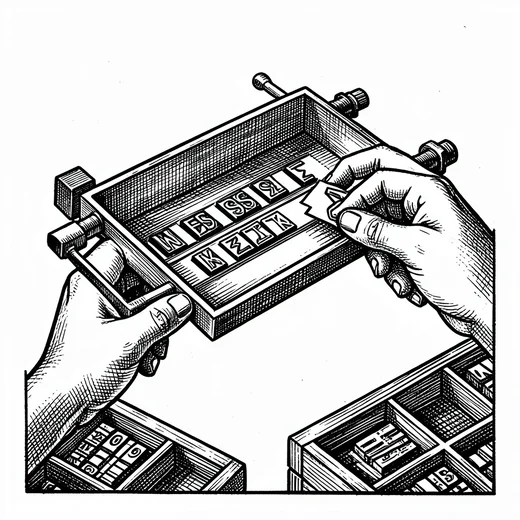
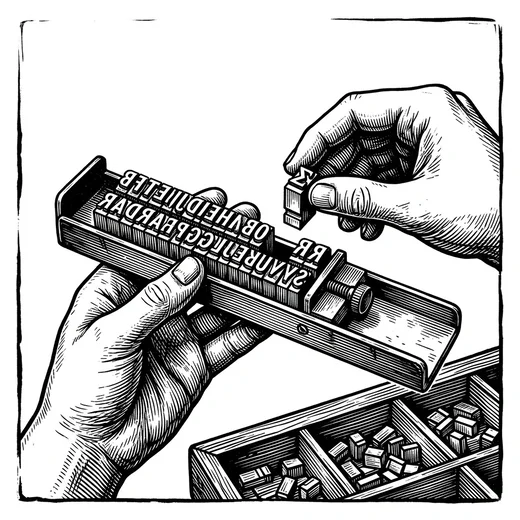
Array Languages #15 draft: an accurate composing stick

diff --git a/_drafts/array-languages-xetal-macro-parsing.md b/_drafts/array-languages-xetal-macro-parsing.md
@@ -21,7 +21,7 @@ repo_urls:
      tmp/equations-findings-2026-10-17.md. NO library exists yet (no commit, no plan step on 10/17): where it lives, its name,
      its API are all open. Do not describe any of it as built until its commit exists. Macros to move onto it, as examples:
      Equations (e:e_q<), Pipeline (pipe:p_ipe<, X_eTaL-ML), Stencil (X_eTaL-demos), Tags (X_eTaL-libraries).
-     Lead image: Mike's block-composer-stick.jpg (2026-10-17), a stylized woodcut; monochrome, inverts in dark mode. -->
+     Lead image: Mike's block-composer-stick.jpg (2026-10-17), third version (11:56), an accurate stick; monochrome, inverts in dark mode. -->
 
 <img src="{{ '/assets/images/posts/block-composer-stick.webp' | relative_url }}" class="post-marker" alt="" style="width: 205px;">
 
@@ -45,7 +45,7 @@ A macro in X_eTaL is a function from the text written at its call to the code th
 <div class="clearfix" markdown="1" style="clear: both;">
 
 <div class="aside-box" style="float: left; clear: none; margin: 0.3em 1.8em 1.2em 0; max-width: 280px;" markdown="1">
-**What is a composing stick?** The tool at the top of this post, drawn loosely. Before machines set type, a compositor built each line of a page by hand in a composing stick: a small metal tray held in one hand, its width set to the line's measure. Letters, one piece of metal each, were picked from the type case one at a time and set in the stick, then spaced out until the line filled the measure exactly and could be lifted out as one piece. Every character was placed on purpose, and nothing was left loose. That is the idea this post borrows for parsing.
+**What is a composing stick?** The tool at the top of this post. Before machines set type, a compositor built each line of a page by hand in a composing stick: a small metal tray held in one hand, its width set to the line's measure. Letters, one piece of metal each, were picked from the type case one at a time and set in the stick, then spaced out until the line filled the measure exactly and could be lifted out as one piece. Every character was placed on purpose, and nothing was left loose. That is the idea this post borrows for parsing.
 </div>
 
 ## Every macro is a parser
